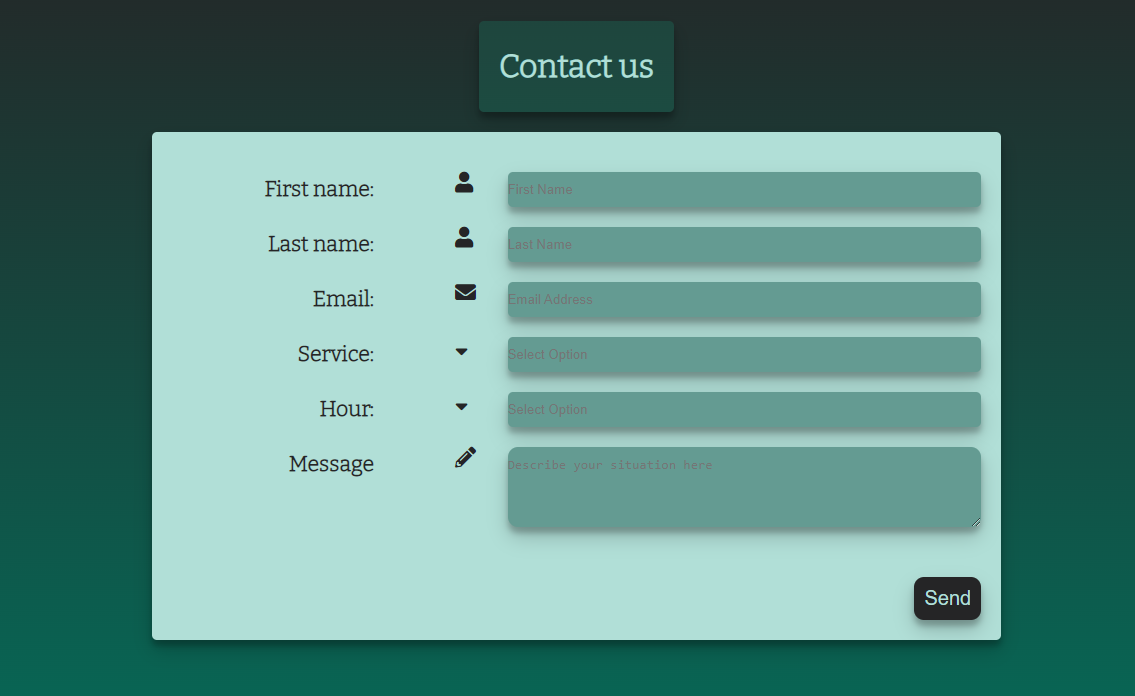
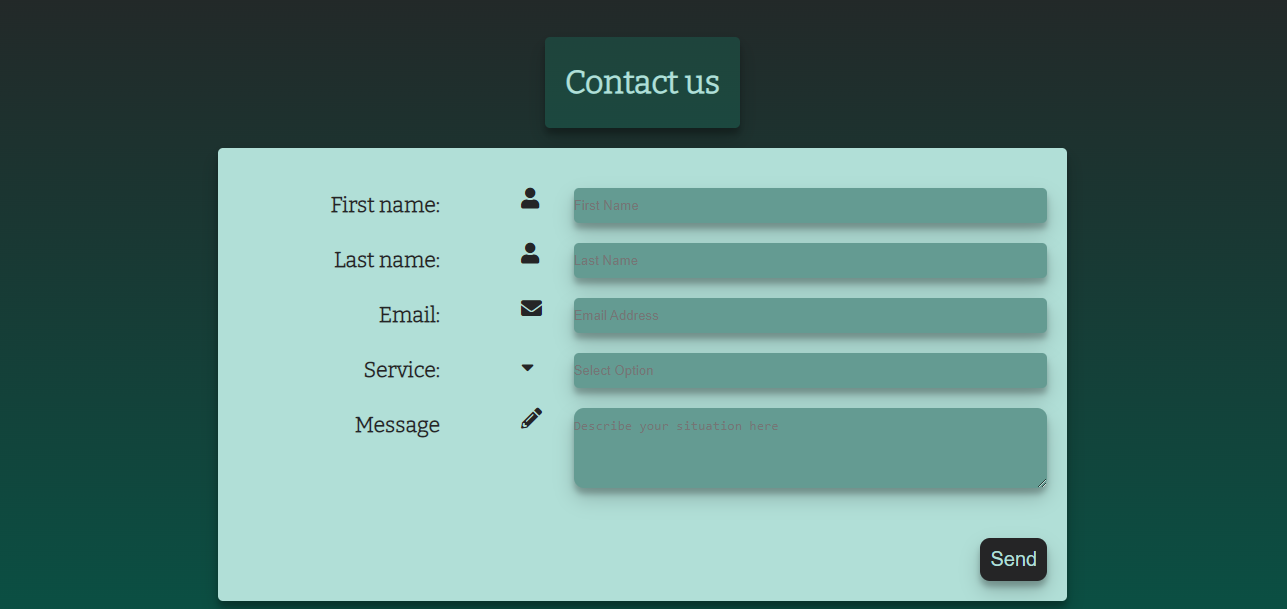
form update

diff --git a/booking.html b/booking.html
@@ -31,7 +31,7 @@
         <h2>Contact us</h2>
     <div id="form_container">
     <!--Form-->
-    <form method="post">
+    <form method="post" action="https://formdump.codeinstitute.net/">
         <!--First and last name-->
         <div class="labelleft"><label for="fname">First name:</label></div>
         <div class="inputright"> <span><i class="fa fa-user" aria-hidden="true"></i></span><input type="text" id="fname" name="fname"  placeholder="First Name" required></div><br>
@@ -47,13 +47,6 @@
 		<option value="1 on 1 session"></option>  
 		<option value="Movement class"></option>
         </datalist></div><br>
-        <!--Datalist shedule options-->
-        <div class="labelleft"><label for="hour_choice">Hour:</label></div>
-        <div class="inputright"><span><i class="fa fa-sort-desc" aria-hidden="true"></i></span><input list="hour_option" id="hour_choice" name="hour_choice" type="text" placeholder="Select Option" />
-        <datalist id="hour_option">
-            <option value="Mornings"></option>  
-            <option value="Afternoons"></option>
-            </datalist></div><br>
         <!--Description of what is happening with the pacient-->
         <div class="labelleft"><label for="explanation">Message</label></div><br>
         <div class="inputright"> <span><i class="fa fa-pencil" aria-hidden="true"></i></span><textarea id="explanation" name="explanation" rows="4" cols="50" placeholder="Describe your situation here"></textarea></div><br>

diff --git a/README.md b/README.md
@@ -3,6 +3,9 @@
 ## Introduction
 Human health is manual therapy and yoga service for everyone. Located in Bilbao, it provides the highest standard in healing through mechanical ways of treatment. The pactioner focuses on using his hand, nutrition and movement to improve health in the patients. The aim of this project is to give visibility to this practioner, showing the methods and techniques he uses in his clinic.
 
+A live website can be found [here](https://rubengardner.github.io/osteopathyweb/index.html).
+  ![Website preview](./assets/images/responsive_devices.png)
+
 ## Table of Contents 
 
 # Table of Contents
@@ -238,7 +241,7 @@ The site was deployed to GitHub pages using the following steps:
 - Select pages on the left menu bar.
 - Click on the master branch and save.
 - This will now generate a link with your website live.
-- The live link can be found here - (https://dhakal79.github.io/Portfolio-project-MS1/)
+- The live link can be found here - (https://rubengardner.github.io/osteopathyweb/)
 
   # Credits
 
